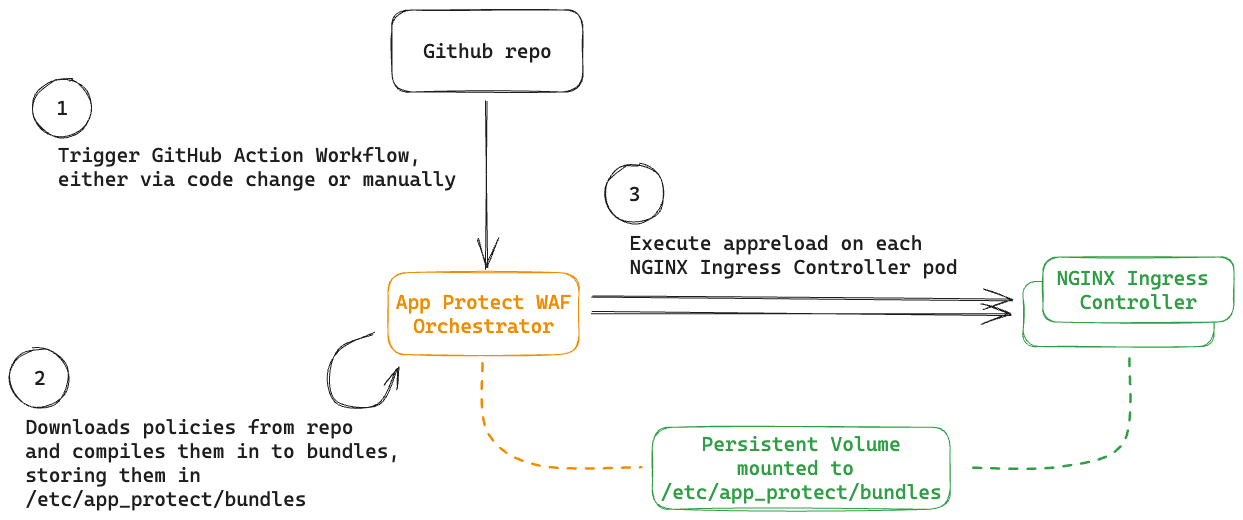
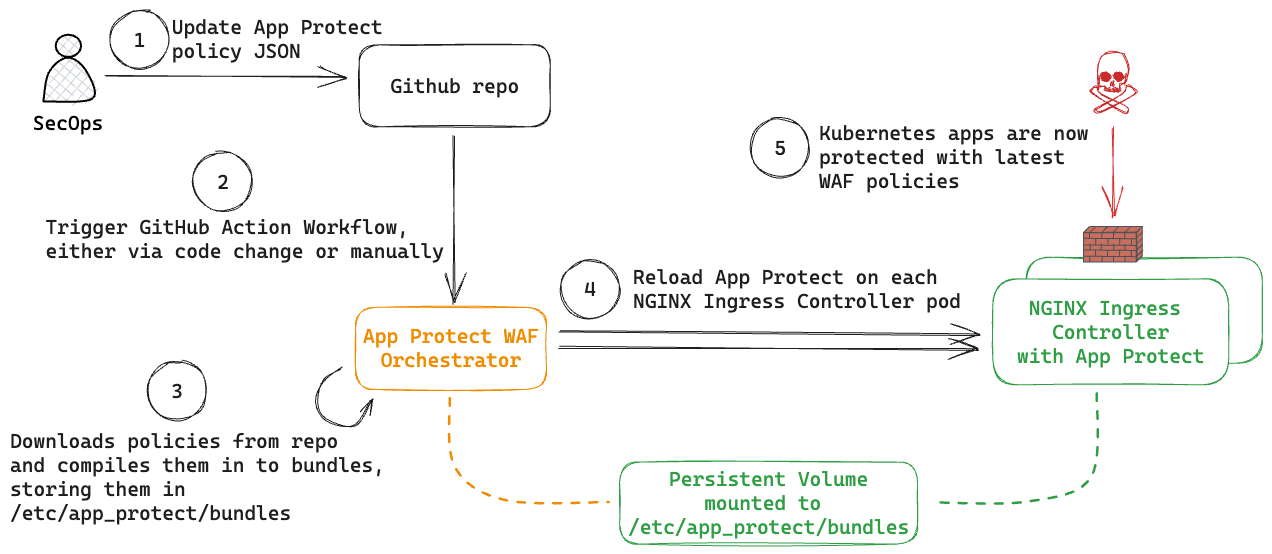
Updated README

diff --git a/README.md b/README.md
@@ -1,10 +1,10 @@
-# App Protect WAF Compiler For NGINX Ingress Controller
+# App Protect WAF Orchestrator For NGINX Ingress Controller
 
-NGINX App Protect WAF 5 introduces an architectural change which decouples WAF policy management from NGINX Ingress Controller operations. This repository showcases an implementation of how the App Protect WAF policies can be managed using a policy-as-code approach and a continous deployment (CD) pipeline.
+NGINX App Protect WAF 5 introduces an architectural change which decouples WAF policy management from NGINX Ingress Controller operations. This repository showcases an implementation of how the App Protect WAF policies can be managed using a policy-as-code approach and continous deployment (CD) pipelines.
 
 ## How it works
 
-![](docs/arch.png)
+![Workflow](docs/arch.png)
 
 An orchestrator pod is deployed in the Kubernetes cluster where NGINX Ingress Controller lives, mounting the same Persistent Volume that NGINX Ingress Controller uses to access App Protect policy bundles (in `/etc/app_protect/bundles`). The orchestrator performs the following:
 - monitors a GitHub repository for changes to App Protect policies using GitHub Actions
